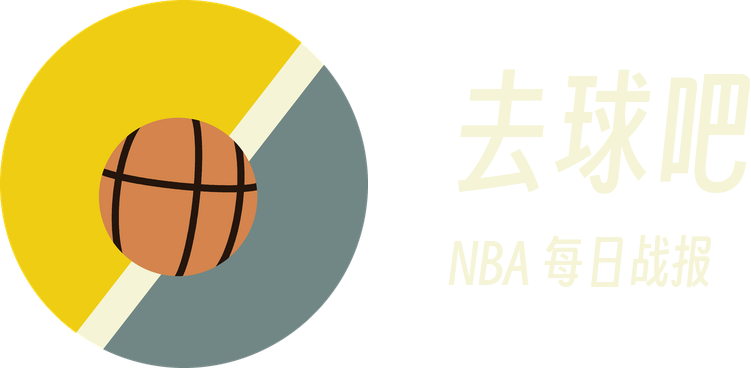
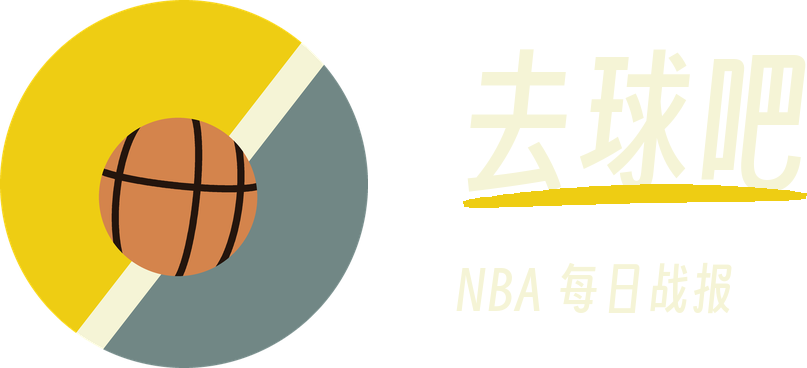
字标：名字下一道手绘黄划，小字加字距
用户说配的文字看着板。诊断：小字 27px 纯黑、字距 0，读作说明文字；
但它上面那行得意黑本身没问题，问题在两行的体量差不够（64:27）。

改三处：
- 名字 64 → 74，与小字拉开到 8:2.6
- 名字下加一道手绘黄划：两头收细、中间最粗、整条微翘 3°，
  等宽直线会读成尺子画的，所以做了锥度和弧
- 小字加 1.4 字距（PIL 无 letter-spacing，逐字排）

试过并放弃：小字装黄胶囊（画面两块黄，和左边大圆重复）、
小字加下划线（页眉缩到 330px 宽时看不见）。活泼只留一处。

diff --git a/brand/render_v3.py b/brand/render_v3.py
@@ -179,25 +179,69 @@ def flat(size=640):
                  ).resize((size, size), Image.LANCZOS)
 
 
+def _swipe(canvas, x0, x1, y, w, rise, curve, fill):
+    """手绘马克笔划：两头收细、中间最粗、整条微微上翘
+    比直线"有精神"的地方全在这个粗细变化和 3px 的弧上——直线读作尺子画的"""
+    n = 60
+    pts, wl = [], []
+    for i in range(n + 1):
+        t = i / n
+        pts.append((x0 + (x1 - x0) * t, y - rise * t - curve * sin(pi * t)))
+        wl.append(w * (0.25 + 0.75 * sin(pi * t) ** 0.55))
+    L, R = [], []
+    for i, p in enumerate(pts):
+        if i == 0:
+            dx, dy = pts[1][0] - p[0], pts[1][1] - p[1]
+        elif i == n:
+            dx, dy = p[0] - pts[-2][0], p[1] - pts[-2][1]
+        else:
+            dx, dy = pts[i + 1][0] - pts[i - 1][0], pts[i + 1][1] - pts[i - 1][1]
+        d = hypot(dx, dy) or 1
+        nx, ny = -dy / d, dx / d
+        L.append((p[0] + nx * wl[i] / 2, p[1] + ny * wl[i] / 2))
+        R.append((p[0] - nx * wl[i] / 2, p[1] - ny * wl[i] / 2))
+    lay = Image.new("RGBA", canvas.size, (0, 0, 0, 0))
+    ImageDraw.Draw(lay).polygon(L + R[::-1], fill=fill + (255,))
+    canvas.alpha_composite(lay)
+
+
+def _tracked(d, xy, txt, font, fill, track=0.0):
+    """逐字排，给字间加余量（PIL 没有 letter-spacing）"""
+    x, y = xy
+    for ch in txt:
+        d.text((x, y), ch, font=font, fill=fill)
+        x += font.getlength(ch) + track
+    return x
+
+
 def lockup(dark=False, scale=2):
-    w, h = 960 * scale, 300 * scale
+    w, h = 980 * scale, 300 * scale
     im = Image.new("RGBA", (w, h), (0, 0, 0, 0))
     mh = int(184 * scale)
     mk = avatar(mh)
     im.alpha_composite(mk, (0, (h - mh) // 2))
-    f1 = ImageFont.truetype(FONT, int(64 * scale))
-    f2 = ImageFont.truetype(FONT, int(27 * scale))
+    f1 = ImageFont.truetype(FONT, int(74 * scale))
+    f2 = ImageFont.truetype(FONT, int(26 * scale))
     col = WHT if dark else INK
-    dd = ImageDraw.Draw(im)
-    tx = mh + int(40 * scale)
-    b1 = dd.textbbox((0, 0), "去球吧", font=f1)
-    b2 = dd.textbbox((0, 0), "NBA 每日战报", font=f2)
-    gap = int(26 * scale)
-    total = (b1[3] - b1[1]) + gap + (b2[3] - b2[1])
+    d = ImageDraw.Draw(im)
+    tx = mh + int(44 * scale)
+
+    tag = "NBA 每日战报"
+    track = 1.4 * scale
+    tag_w = sum(f2.getlength(c) for c in tag) + track * (len(tag) - 1)
+    b1 = d.textbbox((0, 0), "去球吧", font=f1)
+    gap = int(38 * scale)
+    total = (b1[3] - b1[1]) + gap + int(26 * scale * 0.95)
     y1 = (h - total) // 2 - b1[1]
-    y2 = y1 + (b1[3] - b1[1]) + gap - b2[1]
-    dd.text((tx, y1), "去球吧", font=f1, fill=col + (255,))
-    dd.text((tx, y2), "NBA 每日战报", font=f2, fill=col + (255,))
+    y2 = y1 + (b1[3] - b1[1]) + gap
+
+    d.text((tx, y1), "去球吧", font=f1, fill=col + (255,))
+    _tracked(d, (tx, y2), tag, f2, col + (255,), track)
+
+    # 名字下面那道黄划：整份组合里唯一的"手写"，多了就吵
+    ub = d.textbbox((tx, y1), "去球吧", font=f1)
+    _swipe(im, tx + 4 * scale, ub[2] - 2 * scale, ub[3] + 5 * scale,
+           9 * scale, 4 * scale, 3 * scale, YEL)
     return im.crop(im.getbbox())
 
 

diff --git a/brand/README-v3.md b/brand/README-v3.md
@@ -90,6 +90,20 @@ NX, NY   = 0.790, 0.613   # 线法线，指向右上（蓝灰那一侧）
 
 公众号头像上传 640 那张；头条号同图。
 
+## 字标组合：活泼的地方只留一处
+
+`v3-lockup.png` 是"标志 + 去球吧 + NBA 每日战报"的横排组合，用在文章页眉和封面角落。
+
+小字那行原本是 27px 纯黑、字距为 0，读起来像说明文字，整份组合就它最板。改了三件事：
+
+1. **名字放大到 74px**，和小字拉开体量差（8:2.6）。原来 64 偏保守。
+2. **名字下面一道手绘黄划**。这是整份组合里唯一的"手写"，也是唯一让静态字动起来的东西。做成两头收细、中间最粗、整条微翘 3° 的曲线——直接一根等宽直线会读成尺子画的，反而更死。代码是 `_swipe()`。
+3. **小字加 1.4 字距**（PIL 没有 letter-spacing，`_tracked()` 逐字排）。
+
+**为什么不给小字也加装饰**：试过把小字装进黄胶囊、给小字加下划线。胶囊让画面出现两块黄（左边那个大圆已经是一块黄），重复且抢名字；小字下划线在页眉缩到 330px 宽时直接消失，等于白做。**活泼只能有一个落点，落两个就变吵。**
+
+页眉实景：`_header_mock` 仅供看效果，未入库；需要时按 330px 宽调用即可。
+
 ## 已知限制
 
 - **48px 以下球缝会糊成一条黑线**，球退回成"橙圆带几道黑"。轮廓（黄/蓝斜切 + 中心橙球）仍然成立，这比 v2 好——v2 在 48px 只剩色块。
